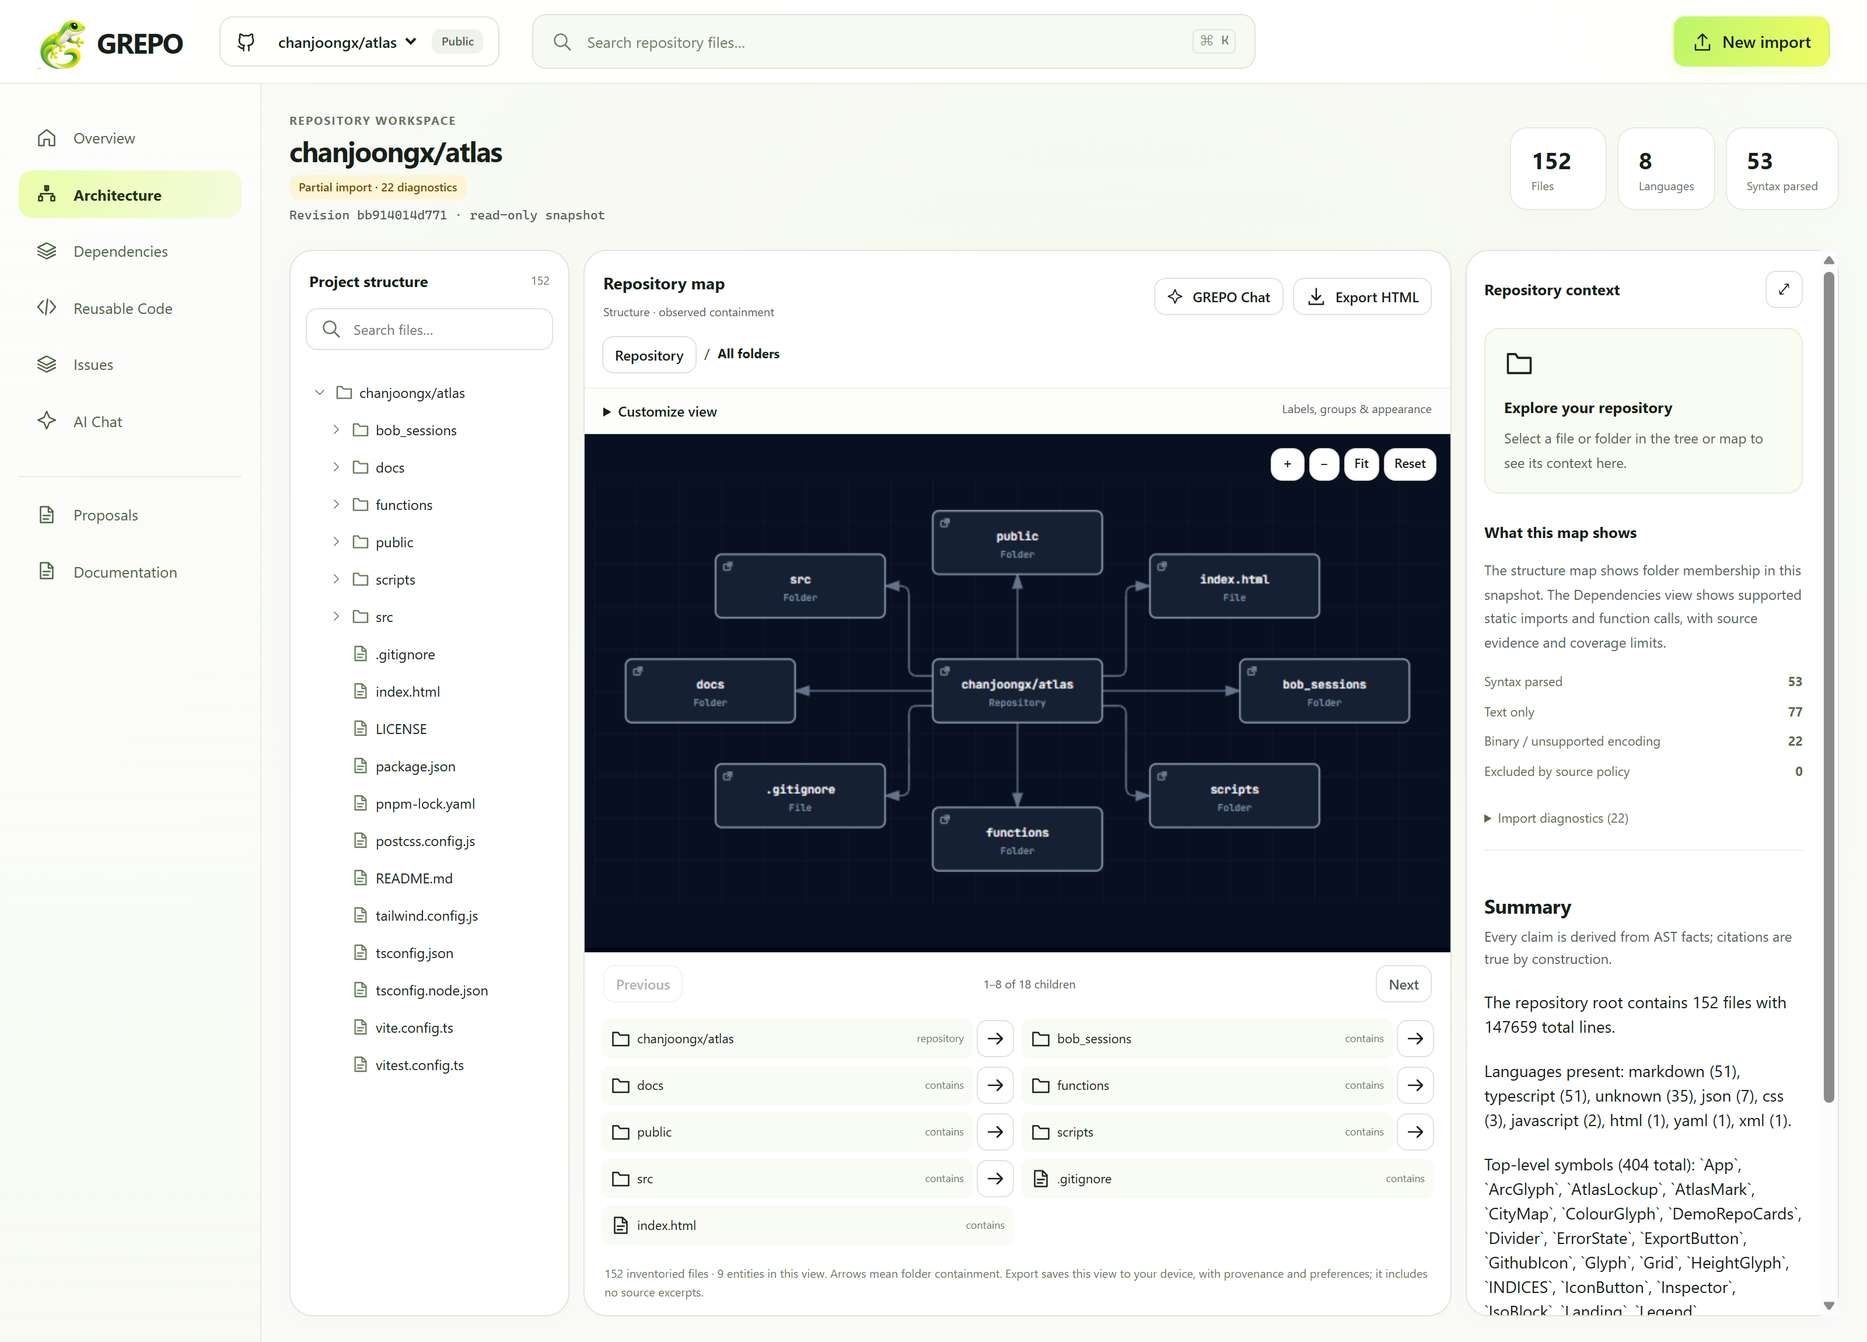
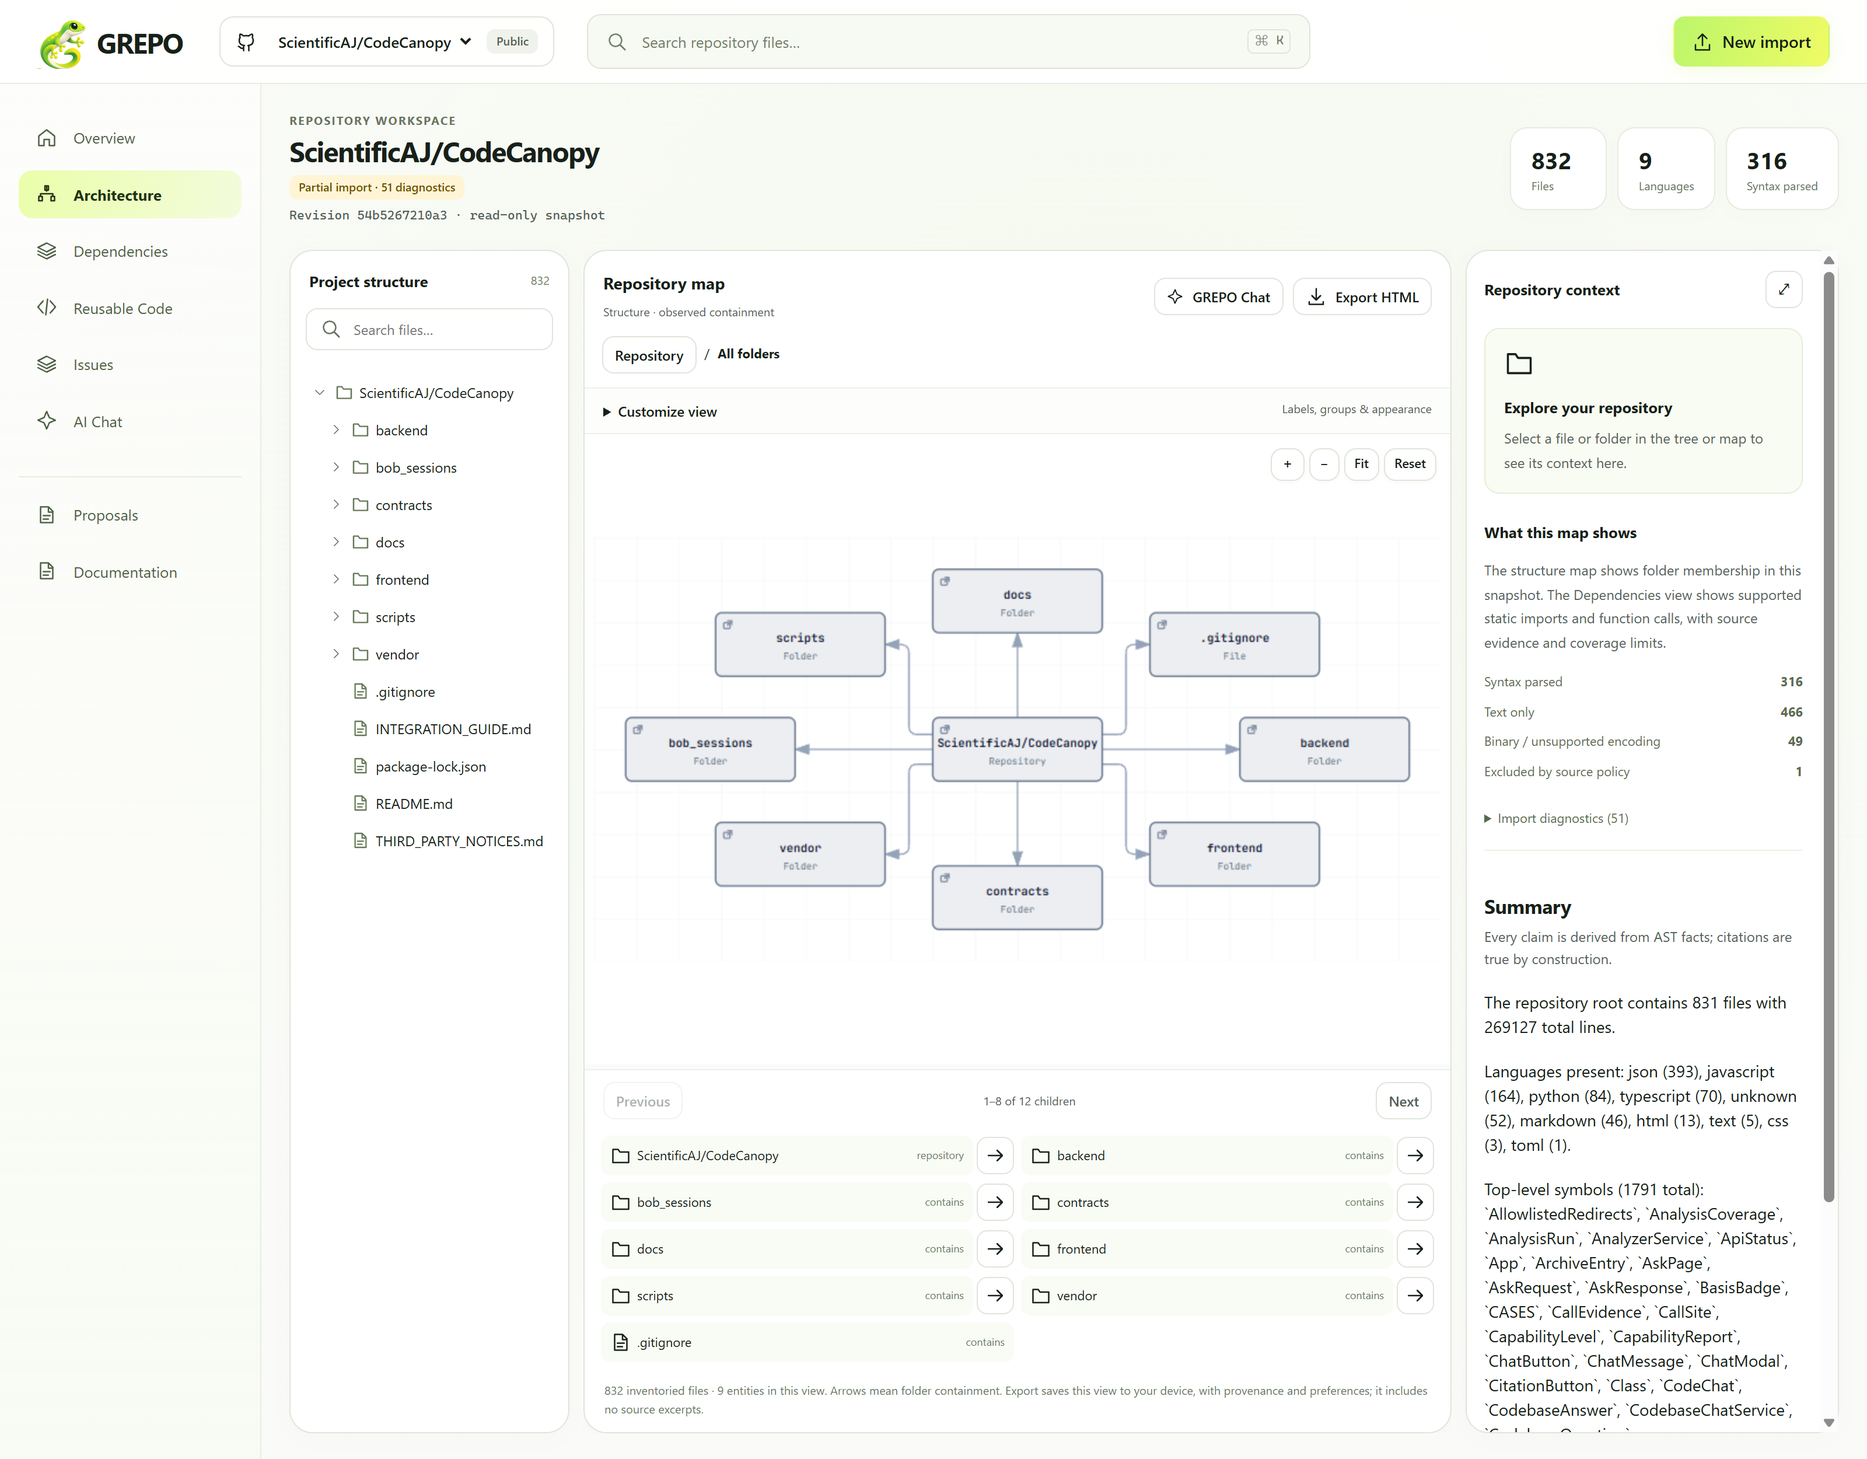
docs: present the submission around what it can prove
Screenshots, measurements and prose.

Every capture in the gallery is now this repository at revision 54b5267. The
architecture map, the dependency panel showing 269 resolved import edges, and
the change proposals panel were all re-shot against our own source, because the
gallery should show what the tool does on the project it ships with.

Re-shooting surfaced a wrong number. The README claimed 4,321 files, 101
seconds and 259 edges for this repository. None of it matched what the tool
reports. The file count came from an earlier CLI measurement that included paths
the importer excludes, and it had never been re-checked against a real import.
Corrected to the measured 832 files, 97 seconds and 269 edges, in the README and
in both submission documents.

Import cost is now measured on projects a reader can recognise, each run through
the harness rather than reused from an earlier session:

  psf/requests       133 files     11.8s    80 edges
  pallets/click      181 files     27.7s   191 edges
  tiangolo/fastapi 3,142 files    327.2s 1,001 edges

FastAPI is the scale case: the largest repository we have run this on, over
seven minutes end to end, still returning a thousand verified edges. The README
says so rather than implying the tool is fast. Two of these figures were wrong
before, including a pallets/click row that read "fast" with no numbers at all.
The harness reports 191 edges for click and the running application
[…]

diff --git a/scripts/strip_em_dashes.py b/scripts/strip_em_dashes.py
@@ -1,0 +1,60 @@
+"""One-off: replace em dashes with plain punctuation in project prose.
+
+Only files we authored. Bob transcripts and vendored docs are left alone:
+they are evidence and third-party source respectively.
+"""
+import pathlib
+import re
+import sys
+
+ROOT = pathlib.Path(__file__).resolve().parents[1]
+
+TARGETS = [
+    "README.md",
+    "docs/submission-bob-usage.md",
+    "docs/submission-checklist.md",
+    "docs/submission-problem-solution.md",
+    "docs/VERIFICATION.md",
+]
+
+# Explicit rewrites where a comma alone reads wrong.
+EXACT = {
+    "README.md": [
+        ("| **Architecture map** \u2014 observed", "| **Architecture map**, observed"),
+        ("| **Verified dependencies** \u2014 88", "| **Verified dependencies**, 88"),
+        ("exist \u2014 the check described below", "exist: the check described below"),
+        ("10s \u2014 259 edges", "10s, 259 edges"),
+        ("1.7s \u2014 88 edges", "1.7s, 88 edges"),
+        ("twice \u2014 by two people, for two different designs \u2014 without",
+         "twice, by two people, for two different designs, without"),
+        ("reason \u2014 an external package", "reason: an external package"),
+        ("**Run one API worker** \u2014 a second", "**Run one API worker**, because a second"),
+        ("is real work \u2014 sticky sessions, shared\nsnapshot storage, a job queue \u2014 and none of it is pretending to be done.",
+         "is real work: sticky sessions, shared\nsnapshot storage, a job queue. None of it is pretending to be done."),
+    ],
+}
+
+total = 0
+for rel in TARGETS:
+    p = ROOT / rel
+    text = p.read_text(encoding="utf-8")
+    before = text.count("\u2014")
+    if before == 0:
+        print(f"{rel}: already clean")
+        continue
+    for a, b in EXACT.get(rel, []):
+        if a not in text:
+            print(f"  WARN pattern absent in {rel}: {a[:55]}")
+        text = text.replace(a, b)
+    # Anything still left: a bare spaced dash. Drop it to a comma.
+    if "\u2014" in text:
+        text = re.sub(r" ?\u2014 ?", ", ", text)
+        text = re.sub(r",\s*,", ",", text)
+    p.write_text(text, encoding="utf-8")
+    left = text.count("\u2014")
+    total += before
+    print(f"{rel}: {before} -> {left}")
+    if left:
+        sys.exit(f"FAILED: em dashes remain in {rel}")
+
+print(f"\ntotal removed: {total}")

diff --git a/README.md b/README.md
@@ -21,11 +21,21 @@ Anything it cannot prove is reported as unproven, with the reason.
 
 | | |
 | --- | --- |
-| **Architecture map** — observed containment, drawn from the snapshot, never inferred. | **Verified dependencies** — 88 resolved edges on `chanjoongx/atlas`, each with the line it came from. |
-| ![Architecture map](docs/images/architecture-map.png) | ![Verified dependency edges](docs/images/dependencies-atlas.png) |
+| **Architecture map**, observed containment, drawn from the snapshot, never inferred. | **Verified dependencies**, 269 resolved import edges on this repository's own source, each with the line it came from. |
+| ![Architecture map](docs/images/architecture-map.png) | ![Verified dependency edges](docs/images/dependencies-panel.png) |
 
-All captures are the live application, all on `chanjoongx/atlas`; the panel at
-the top of this file is this project's own source.
+Every capture above is the live application running against
+`ScientificAJ/CodeCanopy`, this repository, at revision `54b5267`.
+
+**The "Partial import" badge in those captures is not a failure.** It means the
+run recorded diagnostics, and 49 of the 51 on this repository are the Bob panel
+screenshots under `bob_sessions/`, which are binary PNGs and therefore carry
+metadata only. Two files exceeded the parse resource budget and remain
+browsable as text. The tool says so rather than hiding it.
+
+The same view on a well known library. `pallets/click`, 191 verified edges:
+
+![Verified dependency edges on pallets/click](docs/images/dependencies-click.png)
 
 ## Change proposals
 
@@ -52,7 +62,7 @@ the 40 Bobcoin budget.
 
 *Bob IDE with `backend/app/features/dependencies/verifier.py` open and the task
 panel beside it. This is the guard that rejects an edge whose target does not
-exist — the check described below, written by Bob against a brief that
+exist: the check described below, written by Bob against a brief that
 described the attack rather than the fix.*
 
 ## Why that matters
@@ -107,16 +117,25 @@ Import cost, measured on real repositories with the harness in
 
 | Repository | Files | Import | Dependency analysis |
 | --- | --- | --- | --- |
-| `ScientificAJ/CodeCanopy` (this repo) | 4,321 | 101s | 10s — 259 edges, 1,397 unresolved |
-| `chanjoongx/atlas` | 155 | 24s | 1.7s — 88 edges, 64 unresolved |
-| `pallets/click` | 178 | fast | fast |
-| `shadcn-ui/ui` (packages only) | 726 | 125s | 8s |
+| `ScientificAJ/CodeCanopy` (this repo, also shown above) | 832 | 97s | 269 edges |
+| `psf/requests` | 133 | 11.8s | 1.1s, 80 edges, 244 unresolved |
+| `pallets/click` | 181 | 27.7s | 2.1s, 191 edges, 517 unresolved |
+| `shadcn-ui/ui`, one package | 726 | 125s | 8.4s, 276 edges, 1,633 unresolved |
+| `tiangolo/fastapi` | 3,142 | 327.2s | 98.1s, 1,001 edges, 2,553 unresolved |
+
+File counts are what the harness reports after it strips `.git`,
+`node_modules`, `dist`, `build`, `coverage`, `.next` and `.turbo`, so they can
+be three or four files higher than a raw `find` on the same checkout. The edge
+counts are the ones the running application shows, and they match the harness
+exactly.
 
 **The boundary is real and stated.** Archives are capped at 10,000 entries,
-25 MiB per file, and 250 MiB total uncompressed. Repositories in the thousands
-of files complete but exceed a live demo's time budget; scope them to a single
-package, or use the harness above to warm a snapshot before presenting. This
-is a deliberate limit on a local, bounded parser, not a failure.
+25 MiB per file, and 250 MiB total uncompressed. `tiangolo/fastapi` is the real
+scale test: 3,142 files, 327 seconds to import, then 98 seconds of dependency
+analysis to produce 1,001 verified edges. It works, and it takes longer than a
+live demo allows. Scope a large repository to one package, or warm the snapshot
+with the harness before presenting. This is a deliberate limit on a local,
+bounded parser, not a failure.
 
 ## How it is built
 
@@ -225,7 +244,7 @@ sharing a slot name and a type generated from `contracts/prd.schema.json`:
 A feature registers itself; it does not edit the workspace layout, the map, the
 tree, or the slot registry. That is why six people built six features in
 parallel without colliding, and why the dependency panel could be rebuilt
-twice — by two people, for two different designs — without touching a shared
+twice, by two people, for two different designs, without touching a shared
 file.
 
 ## Run locally
@@ -281,7 +300,7 @@ to an absolute Node executable if necessary. No installation inside
    lines. This is the point of the product.
 5. Open **Dependencies**. Resolved edges are grouped by source file, each with a
    citation button. Unresolved references are listed separately with their
-   reason — an external package and a missing file are different problems and
+   reason: an external package and a missing file are different problems and
    are reported differently.
 6. Use Customize view to change labels, order, theme and map density. Create
    virtual groups from the complete inventory, rename/recolor them, and add or
@@ -347,14 +366,14 @@ CI workflow, no cloud config. The reason is specific rather than aspirational:
 | Property | Why it constrains deployment |
 | --- | --- |
 | Source expiry | Snapshots live 24 hours, then source bytes are deleted. Nothing persists between sessions. |
-| In-process parsing | Syntax extraction runs under POSIX resource limits in the API process. **Run one API worker** — a second would double-apply `RLIMIT_AS` and `RLIMIT_CPU`. |
+| In-process parsing | Syntax extraction runs under POSIX resource limits in the API process. **Run one API worker**, because a second would double-apply `RLIMIT_AS` and `RLIMIT_CPU`. |
 | Workspace identity | State is a browser workspace cookie, not an account. Horizontal scaling would need shared session storage. |
 | Bounded jobs | Two imports run concurrently, four admitted, three-minute deadline. Capacity planning is four jobs, not unbounded. |
 
 What that means in practice: this runs as a **single-instance local service on
 loopback today**, which is how it was developed and how it was recorded. Making
-it multi-tenant or publicly hosted is real work — sticky sessions, shared
-snapshot storage, a job queue — and none of it is pretending to be done.
+it multi-tenant or publicly hosted is real work: sticky sessions, shared
+snapshot storage, a job queue. None of it is pretending to be done.
 
 If you need to run it anywhere but your machine, the sequence is:
 1. Containerize both services (the Python one needs the POSIX limits honoured).

diff --git a/docs/submission-checklist.md b/docs/submission-checklist.md
@@ -4,7 +4,7 @@ Everything in this file is a claim the submission makes about itself. Each one
 is either verified here, or owned by a named person. Nothing is left as an
 assumption.
 
-## Verified — reproduce it yourself
+## Verified, reproduce it yourself
 
 | Item | Where to check | Expected |
 | --- | --- | --- |
@@ -19,12 +19,12 @@ assumption.
 
 ## Written and in the repository
 
-- [x] **Problem and Solution statement** — `docs/submission-problem-solution.md`, 484 words
-- [x] **IBM Bob Usage statement** — `docs/submission-bob-usage.md`, 489 words
-- [x] **README** — leads with the verifier, shows the attack table, real captures, honest infrastructure section
-- [x] **Bob IDE proof** — `docs/images/bob-ide-workspace.png`, referenced from the README
-- [x] **Folder structure** — verified tree, all 52 paths checked against disk
-- [x] **Cover image** — use `frontend/public/codecanopy-logo.png`; the submission form wants a single image, and the logo is the one asset built for that
+- [x] **Problem and Solution statement**, `docs/submission-problem-solution.md`, 484 words
+- [x] **IBM Bob Usage statement**, `docs/submission-bob-usage.md`, 489 words
+- [x] **README**, leads with the verifier, shows the attack table, real captures, honest infrastructure section
+- [x] **Bob IDE proof**, `docs/images/bob-ide-workspace.png`, referenced from the README
+- [x] **Folder structure**, verified tree, all 52 paths checked against disk
+- [x] **Cover image**, use `frontend/public/codecanopy-logo.png`; the submission form wants a single image, and the logo is the one asset built for that
 
 ## What the guide requires, confirmed
 
@@ -38,16 +38,16 @@ that is a lablab requirement rather than a guide requirement.
 
 ## Not in this repository
 
-- [ ] **Demo video** — AJ. Not a guide requirement; a submission-form requirement.
-- [ ] **`06-arjun-repository-setup` panel screenshot** — Arjun. The guide says each
+- [ ] **Demo video**, AJ. Not a guide requirement; a submission-form requirement.
+- [ ] **`06-arjun-repository-setup` panel screenshot**, Arjun. The guide says each
       participant must upload their own task panels. The folder currently has
       transcripts but no panel image.
-- [ ] **`08-sajidHameed-chatbot-work` panel screenshot** — Sajid. Same requirement;
+- [ ] **`08-sajidHameed-chatbot-work` panel screenshot**, Sajid. Same requirement;
       that folder has a transcript and no panel image.
 
 ## Known limits, stated rather than hidden
 
-- Import cost: 155 files in 24s, 4,321 in 101s, 726 in 125s. Repositories in the
+- Import cost: 133 files in 11.8s, 832 in 97s, 726 in 125s. Repositories in the
   thousands of files exceed a live demo's time budget. The archive caps are
   10,000 entries, 25 MiB per file, 250 MiB extracted.
 - No Dockerfile, CI workflow or cloud config is checked in. The README explains
@@ -64,5 +64,5 @@ that is a lablab requirement rather than a guide requirement.
    in the repository but the form is separate.
 2. Confirm every team member's Bob panels are present, including the two above.
 3. Re-run the verification table at the top on the final commit.
-4. If the form requires a live app URL, that does not exist yet — the service
+4. If the form requires a live app URL, that does not exist yet. The service
    runs on loopback. See the deployment section of the README.

diff --git a/docs/submission-problem-solution.md b/docs/submission-problem-solution.md
@@ -1,4 +1,4 @@
-# GREPO — Problem and Solution Statement
+# GREPO, Problem and Solution Statement
 
 **The problem: repository analysis tools make claims you cannot check.**
 
@@ -13,7 +13,7 @@ The failure is worst on dependencies. A resolver that cannot prove an import
 target exists will invent one to make a graph look connected, or it will quietly
 drop every edge it could not prove and present an empty graph as complete. The
 previous edition's second-place project shipped a resolver that could fabricate
-targets, and every map in its judged build drew zero dependency arcs — a
+targets, and every map in its judged build drew zero dependency arcs. A
 dependency view that looked finished and contained nothing.
 
 **The solution: verify every claim before it is shown, and prove the verifier.**
@@ -27,7 +27,7 @@ confirms the cited line supports the claim. Claims that fail are removed rather
 than shown faintly.
 
 The same rule governs the dependency graph. An import that does not resolve
-stays unresolved and is listed with its reason — a bare package specifier and a
+stays unresolved and is listed with its reason, a bare package specifier and a
 missing file are different problems and are reported differently. Change impact
 with no meaningful answer returns an empty list and says why, instead of a
 confident zero. Nothing is invented to make a view look complete.
@@ -35,14 +35,14 @@ confident zero. Nothing is invented to make a view look complete.
 The verifier is delivered with the attacks that broke it. Six forgeries were
 constructed by hand and run against the real verifier: a citation on a real
 line that does not import the target, a citation past end of file, a file ID
-belonging to another snapshot, a null target, and — found by attacking finished
-code rather than by writing tests for it — an edge whose citation was entirely
+belonging to another snapshot, a null target, and, found by attacking finished
+code rather than by writing tests for it, an edge whose citation was entirely
 valid but whose target file did not exist. All six are rejected, each with its
 own reason. `backend/scripts/demo_verifier.py` reproduces the table.
 
 The result is a tool whose central promise is falsifiable, and a reader can
-test it in under a minute. On this repository's own source, GREPO reports 4,321
-files, 101 seconds to import, 259 verified dependency edges, and 1,397
-unresolved references — each labelled with why it could not be proven. On
-`chanjoongx/atlas` it reports 88 verified edges where that project's own README
-says its judged build drew none.
+test it in under two minutes. On this repository's own source, GREPO reports
+832 files and 269 verified dependency edges, and every edge it cannot prove
+stays unresolved with the reason attached. On `pallets/click` it reports 191
+verified edges while 517 imports stay unresolved and labelled, which is the
+honest ratio for a library whose dependencies live outside its own tree.

diff --git a/docs/submission-bob-usage.md b/docs/submission-bob-usage.md
@@ -1,4 +1,4 @@
-# GREPO — IBM Bob Usage Statement
+# GREPO, IBM Bob Usage Statement
 
 **Ten Bob sessions, 39.88 of 40 Bobcoins, and three agents that corrected the
 briefs they were given.**
@@ -33,7 +33,7 @@ its session summary, and each is the more useful outcome:
   fixed, on the grounds that both problems should be visible in the output.
 - The rendering brief assumed a streaming bug. There is no streaming. Bob traced
   the renderer's control flow, reported that the label renders exactly once, and
-  fixed the real cause — a preview that sliced a markdown table in half.
+  fixed the real cause, a preview that sliced a markdown table in half.
 - The Ask wiring brief asked for a budget confirmation Bob could not see. Bob
   said so instead of inventing a figure.
 

diff --git a/docs/VERIFICATION.md b/docs/VERIFICATION.md
@@ -1,6 +1,6 @@
 # Verification record
 
-## 2026-09-27 — shared UI completion
+## 2026-09-27, shared UI completion
 
 Implemented real ZIP upload, optional GitHub revision input, recent imports,
 retention/exclusion disclosures, a factual overview, adaptive map density,
@@ -55,7 +55,7 @@ correction_rounds: 1
 These are local implementation/browser checks, not a hosted deployment claim.
 The original foundation evidence below remains a historical record.
 
-## 2026-09-26 — foundation
+## 2026-09-26, foundation
 
 Recorded 2026-09-26. Scope: the structure workspace and shared integration
 surfaces described in [SCOPE.md](SCOPE.md).
